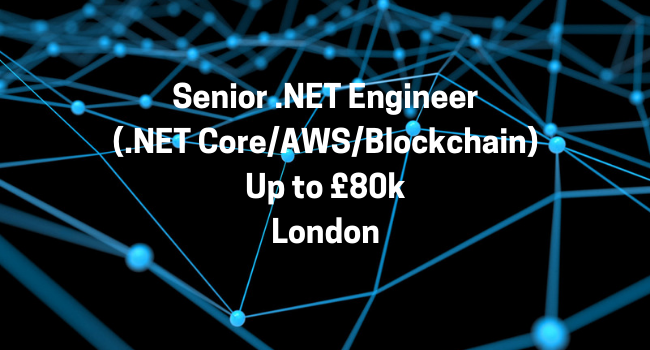
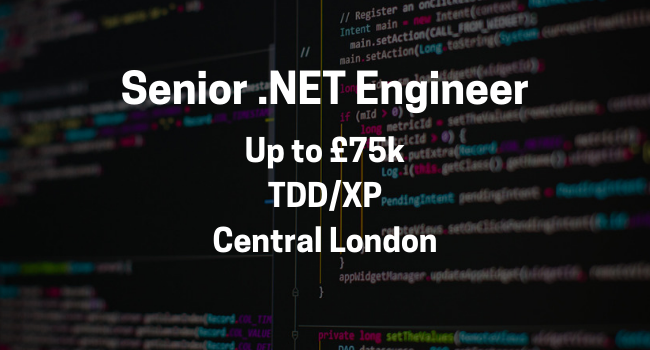
2019Update

diff --git a/index.html b/index.html
@@ -78,9 +78,24 @@ I joined Reco Group to utilise my knowledge of application development and help 
 		   <h3 class="section-heading text-white">Doug Thomson - Technology Manager - Just Eat </h3>
             <hr class="light">
             <p class="text-faded">"I can say without doubt, George has been the most effective recruiter I have ever worked with. Through continually listening to my needs he has supplied fantastic candidates meaning our interview/offer ratio is second to none. Thank you George"</p>
-		   <h3 class="section-heading text-white">Steve O'Gallagher - C# Developer</h3>
+		   	<h3 class="section-heading text-white">Mark Dungey - Senior Developer</h3>
+            <hr class="light">
+            <p class="text-faded">"George is one of the most diligent and professional agents I've met. He was easy to contact and quick to respond to any question, he followed up on my behalf and provided personal and client feedback without me having to chase. I have no reservations in recommending George."</p>
+	      	<h3 class="section-heading text-white"> Josh Stevens - Senior Developer</h3>
+            <hr class="light">
+            <p class="text-faded">"George was professional from the go. He had my best intentions throughout. He made the entire recruitment process so easy and handled everything. To top it off he is such a down to earth and lovely guy. He secured me a brilliant offer with a company I absolutely love! Would highly recommend him!"</p>
+			<h3 class="section-heading text-white">Florian Zysset - Senior Developer</h3>
+            <hr class="light">
+            <p class="text-faded">"George helped me secure a new job, and I'm very thankful for that! He has been very nice and quick during the whole process, shared some good advice during the process, and always have been very helpful. I’d highly recommend George to anyone who wants someone that understands what you need or want!"</p>
+			<h3 class="section-heading text-white">Steve O'Gallagher - C# Developer</h3>
             <hr class="light">
             <p class="text-faded">"If you’re looking for someone as passionate as he is diligent when it comes to linking candidates to their best fit roles then look no further than George. He’s patient enough to take a good amount of time and care when exploring options and possibilities but is also proactive and efficient when moving forward through processes. Highly recommend."</p>
+			<h3 class="section-heading text-white">Matthew Tamsett - .NET Developer</h3>
+            <hr class="light">
+            <p class="text-faded">"George is up there with some of the best recuiters I've dealt with. Not only did he work with me to find opportunities that were tailored to my skills and career goals but he was open and honest through the while process. He had a wealth of knowledge on each role and company which helped me go into the interview feeling prepared, confident and stress free."</p>
+			<h3 class="section-heading text-white">Kleber Guedes - Senior Developer</h3>
+            <hr class="light">
+            <p class="text-faded">"George is one of the good ones, and they are rare. George secured my latest position and I couldn't be happier. On our first chat, George already knew what I could be looking for, and offered me a bunch of positions in several different markets. His feedbacks were quick and snap but never over the top, he doesn't call you 300 times a day. Working with George was a pleasure and he is extremely competent on his job."</p>
 			<h3 class="section-heading text-white">Pavel Danov - C# Developer</h3>
             <hr class="light">
             <p class="text-faded">"George helped me secure an excellent position just 2 weeks after I moved to the UK! The companies he provided for my profile were on point and exactly what I was looking for. He helped me immensely when it came to understanding the hiring processes here and was always thorough in his answers to whatever questions I had. I’d recommend George to anyone who wants a hands-on approach and understanding of what is it that you want!"</p>
@@ -89,7 +104,10 @@ I joined Reco Group to utilise my knowledge of application development and help 
             <p class="text-faded">"George helped me with securing a position. Throughout this time, I found him helpful, approachable and easy to talk to, a nice guy in recruiting. He is interested in your career, not just securing you a role. I would be happy trusting George again to secure my next position."</p>
             <h3 class="section-heading text-white">Tomasz Zelewski - Senior C# Developer</h3>
             <hr class="light">
-            <p class="text-faded">"George is a very supportive and professional recruiter. He listened to my needs and was able to work with them in mind. He was very approachable and always available to answer many questions I had. With pleasure I can recommend George."</p>
+            <p class="text-faded">"George was very professional and honest, he found me a good job in no time. He knows what he is doing. But he is also friendly and human, which was much appreciated!"</p>
+			<hr class="light">
+            	<h3 class="section-heading text-white">Fabien Plongeron - .NET Developer</h3>
+		    <p class="text-faded">"George is a very supportive and professional recruiter. He listened to my needs and was able to work with them in mind. He was very approachable and always available to answer many questions I had. With pleasure I can recommend George."</p>
             <h3 class="section-heading text-white">Richard Rodriguez - JavaScript Contractor</h3>
             <hr class="light">
             <p class="text-faded">"When I was looking for a new role, George understood what I was interested in doing and the criteria I had set. Although he wasn't able to help me initially, several months later I got a surprise call from. He is obviously interested in the candidates he is representing because the role is precisely what I was looking for. He managed the recruitment process in an efficient and personable way, met me for coffee before the interview and has kept in contact since I started. We chat frequently about how the role is working for me and about the community which he is excited to be part of."</p>
@@ -245,7 +263,7 @@ I joined Reco Group to utilise my knowledge of application development and help 
                     Senior .NET Engineer
                   </div>
                   <div class="project-name">	
-                    The demand for Blockchain Engineers has grown 320% this year alone. Want to get involved and learn the latest technologies, including Solidity? Please get in touch.
+                    Are you a C# Engineer that has a huge focus on quality? If so, my client is seeking engineers that want to influence best practice for some of the leading household names. My client has a huge focus on best practice, particularly Agile/TDD/XP. If you would like to find out more, please get in touch. 
  
                   </div>
                 </div>
